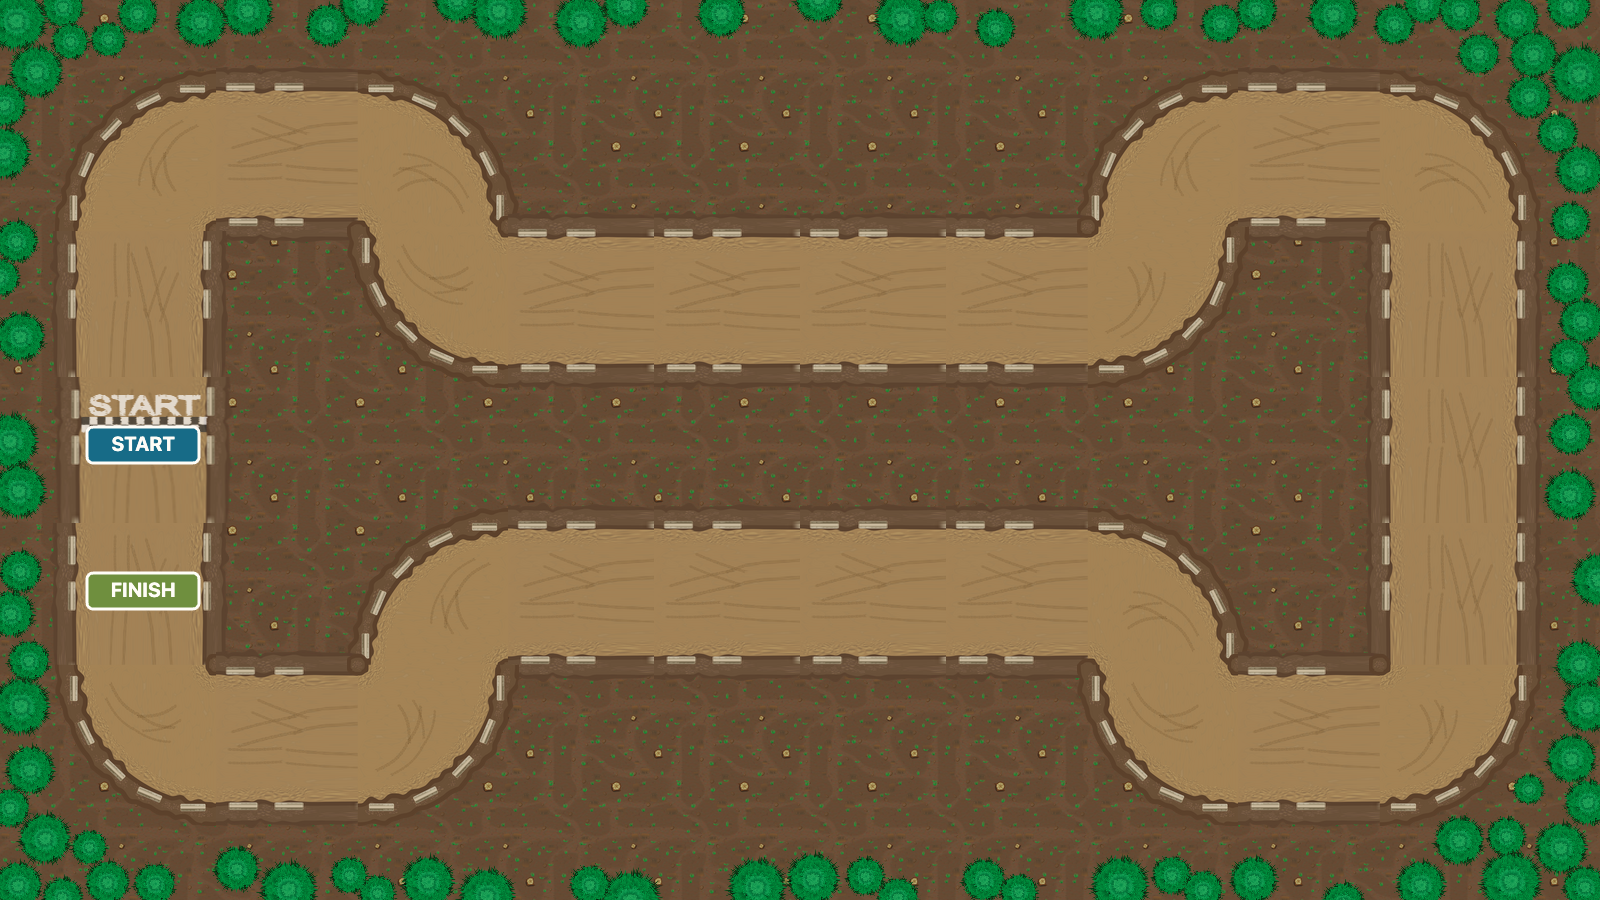
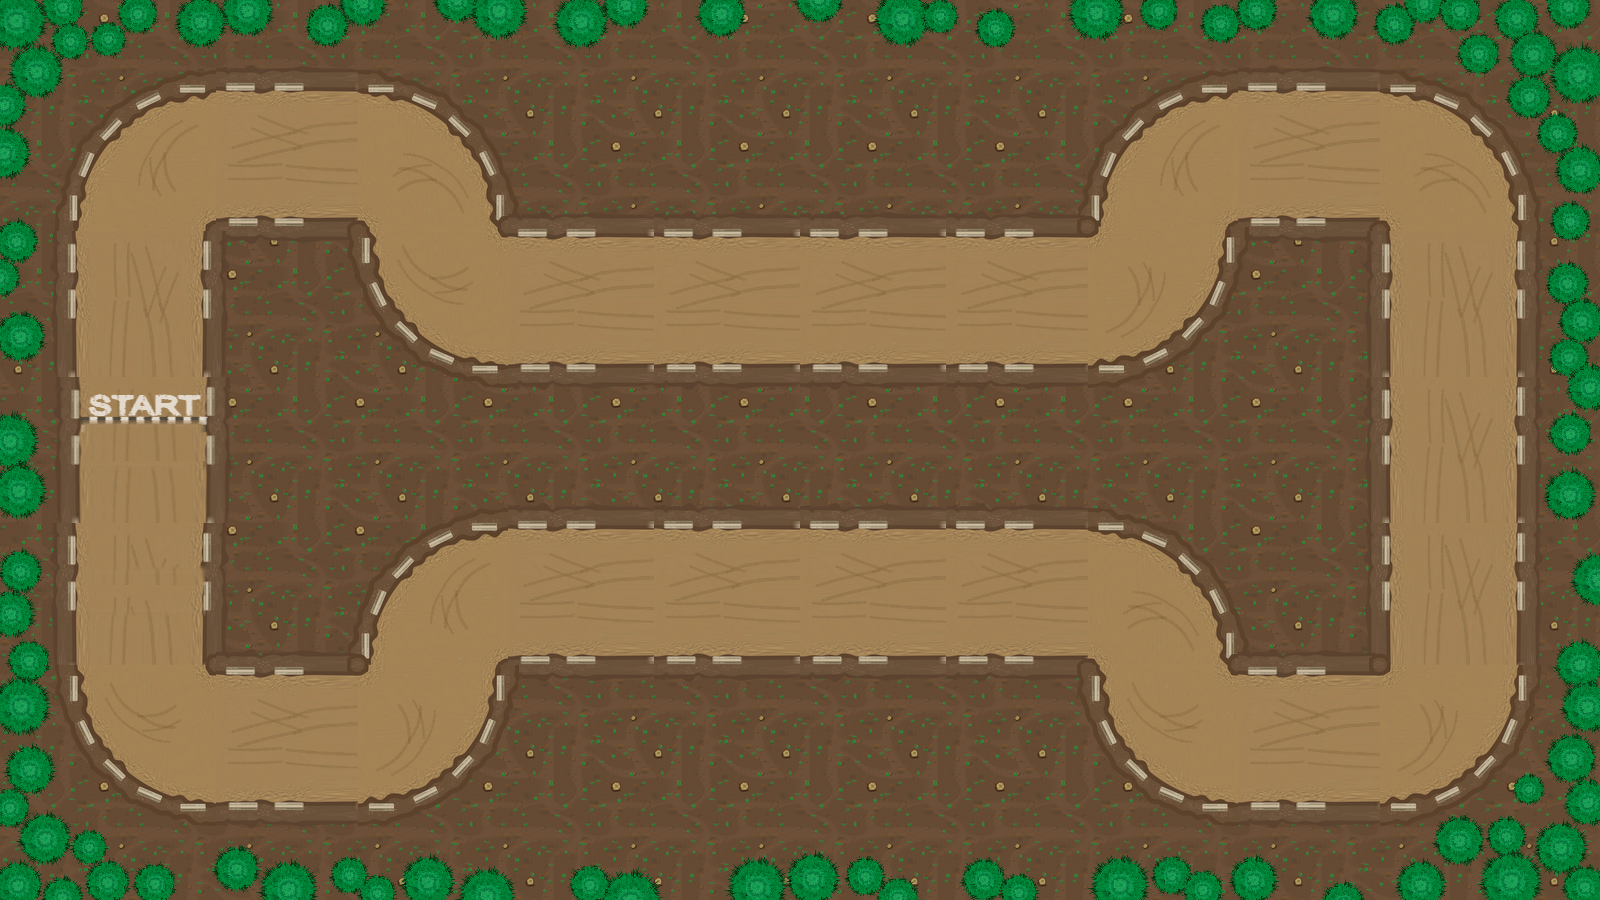
fix finish line problem

Changed region(s): [[0.0312, 0.6222, 0.125, 0.6844], [0.0312, 0.4667, 0.125, 0.5289]]

diff --git a/game_engine/backend/competition_track.py b/game_engine/backend/competition_track.py
@@ -42,6 +42,7 @@ class CompetitionRunTracker:
     lap_ticks: int | None = None
     max_progress: float = 0.0
     ticks_to_max_progress: int = 0
+    awaiting_start_gate: bool = False
 
     @classmethod
     def from_metadata_path(cls, metadata_path: Path | str) -> "CompetitionRunTracker":
@@ -61,26 +62,35 @@ class CompetitionRunTracker:
         if self.completed or not self.checkpoints:
             return
 
+        if self.awaiting_start_gate:
+            if _passed_gate(previous, current, self.checkpoints[0]):
+                self.checkpoints_completed += 1
+                self.completed = True
+                self.lap_ticks = tick
+                self.awaiting_start_gate = False
+                self.max_progress = self.total_length_px
+                self.ticks_to_max_progress = tick
+            return
+
         for _ in range(len(self.checkpoints)):
             checkpoint = self.checkpoints[self.next_index]
             if not _passed_gate(previous, current, checkpoint):
                 break
             self.checkpoints_completed += 1
             self.next_index += 1
-            progress = min(
-                self.total_length_px,
-                self.total_length_px
-                * self.checkpoints_completed
-                / len(self.checkpoints),
-            )
+            progress = self._progress_after_checkpoint()
             self._observe_progress(progress, tick=tick)
             if self.next_index >= len(self.checkpoints):
-                self.completed = True
-                self.lap_ticks = tick
+                self.awaiting_start_gate = True
                 self.next_index = 0
-                self.max_progress = self.total_length_px
-                self.ticks_to_max_progress = tick
                 break
+
+    def _progress_after_checkpoint(self) -> float:
+        required_gate_count = len(self.checkpoints) + 1
+        return min(
+            self.total_length_px,
+            self.total_length_px * self.checkpoints_completed / required_gate_count,
+        )
 
     def _observe_progress(self, progress: float, *, tick: int) -> None:
         if progress > self.max_progress: